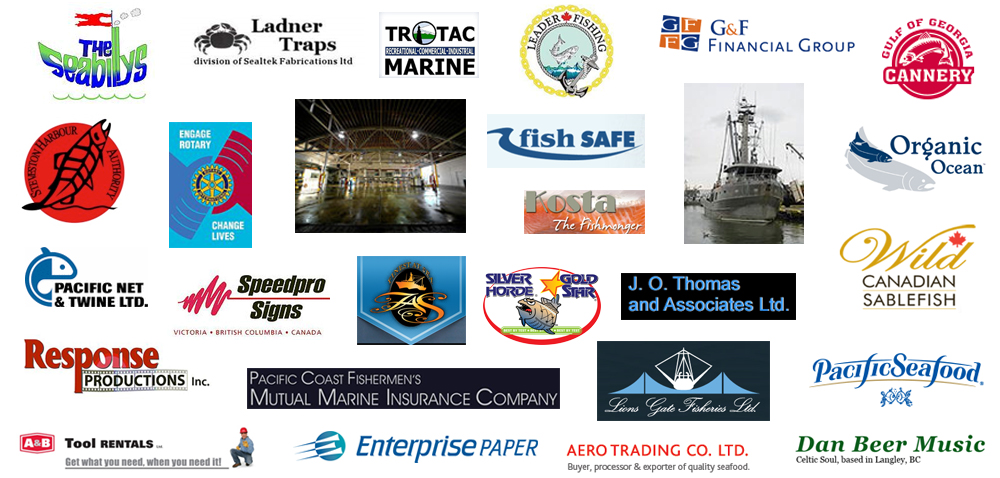
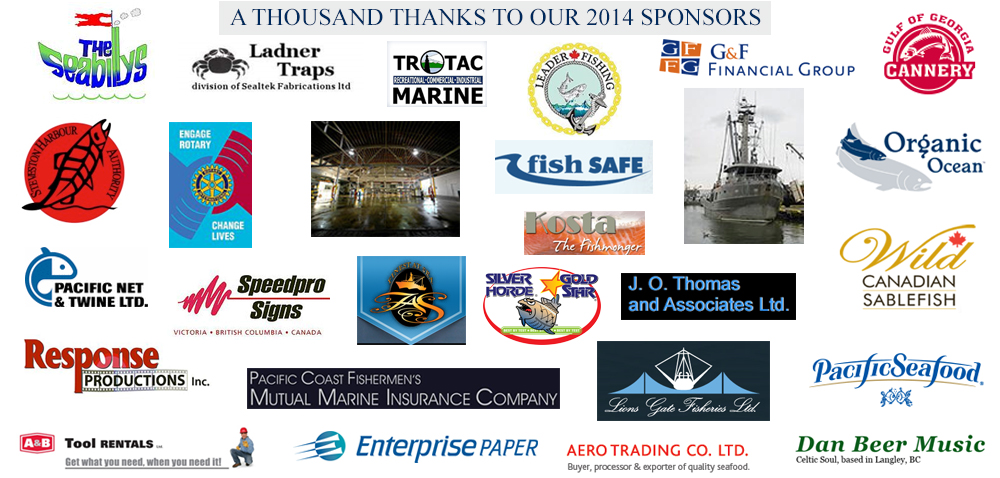
update

Changed region(s): [[0.186, 0.0, 0.992, 0.5565], [0.837, 0.2636, 0.992, 0.41]]

diff --git a/sponsors.html b/sponsors.html
@@ -50,11 +50,15 @@
 <!-- InstanceBeginEditable name="content" -->
 
 	<div id="three-columns">
-		<h3>A THOUSAND THANKS TO OUR 2014 SPONSORS</h3>
-                <img src="images/slide3.jpg">
-<br/><br/><br/>
-	
-<p>MV Viking Fisher (Neil Jensen & Crew), MV Queens Reach (John Legate & Crew), MV Pachena No. 1 (Mitch Ponac and Crew), Seafood Producers Association of BC (Aero Trading Company, Canadian Fishing Company, Fisher Bay Seafood, Grand Hale Marine Products, Leader Fishing Group, Lions Gate Fisheries, North Delta Seafoods), Steveston Seafood Auction, JO Thomas & Associates, Steveston Harbour Authority, Finest at Sea Ocean Products, Leader Cold Storage, Orca Seafoods, Shoreline Tank Services, Unitrend Plastics, Canadian Sablefish Association, Pacific Net and Twine, Ladner Traps, Gulf of Georgia Cannery Society, G&F Financial Group, Pacific Coast Fishermen’s Mutual Marine Insurance Company, Fish Safe BC, Insight Productions, Simon Taylor Designs, Response Productions, Hideaway Ventures II,The Seabillys Band, The Rotary Club of Steveston, Fiosa-Miosa, Nesika Insurance, Target Specialty Advertising, SimpleSIGN, A&B Tool Rentals, Sabrina Henry Photography	</p>
+		                <img src="images/slide3.jpg">
+<br/><br/>
+
+<h3>2015 HERRING SALE SPONSORS:</h3>
+
+<p>MV "Pachena No. 1"(Mitch Ponac & Crew), MV Pender Isle (Garth Roberts & Crew), MV “Queens Reach” (John Legate & Crew), MV “Viking Fisher” (Neil Jensen & Crew), Steveston Seafood Auction, Seafood Producers Association of BC: Aero Trading Company, Canadian Fishing Company, Fisher Bay Seafood, Grand Hale Marine Products, Leader Fishing Group, Lions Gate Fisheries, North Delta Seafoods, Steveston Harbour Authority, JO Thomas & Associates, Finest at Sea Ocean Products, Leader Cold Storage, Orca Seafoods, Shoreline Tank Services, Unitrend Plastics Ltd., Organic Ocean, Pacific Net and Twine, Ladner Traps, Bishops Aluminum & Steel Ltd., False Creek Harbour Authority, Canadian Sablefish Association, Area E Gillnetters, Fish Safe BC, Gulf of Georgia Cannery Society, G&F Financial Group, Pacific Coast Fishermen’s Mutual Marine Insurance Company, Bill Forbes, Simon Taylor Designs, Hideaway II Ventures, The Seabillys Band, Rotary Club of Steveston, False Creek Harbour Authority, Rowe Events, Nesika Insurance, Silver Horde, Simple Sign Inc., Westham Island Herb Farm, Jonathan Cruz, SFH Accounting, Admiralty Law, Normark Inc.</p>
+
+<p><b>Victoria:</b> Coldstar Freight, Speedpro Signs, Enterprise Paper, E Madill Office Supplies, Planet Clean, Times Colonist, Zambri’s, Trotac Marine, Aero Trading, City of Victoria, Foodpa, Black Press</p>
+
  </div>   
 <!-- InstanceEndEditable -->    
 <div id="footer_contact">
